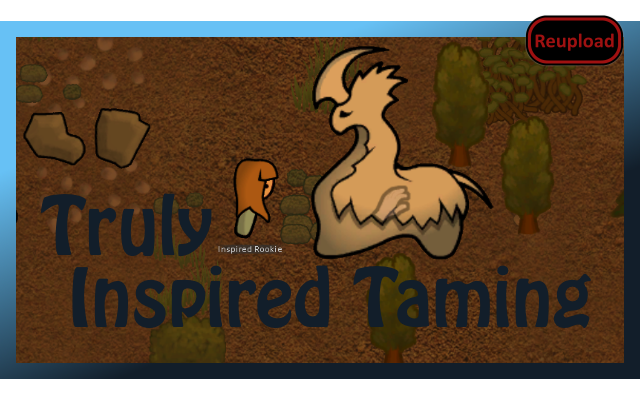
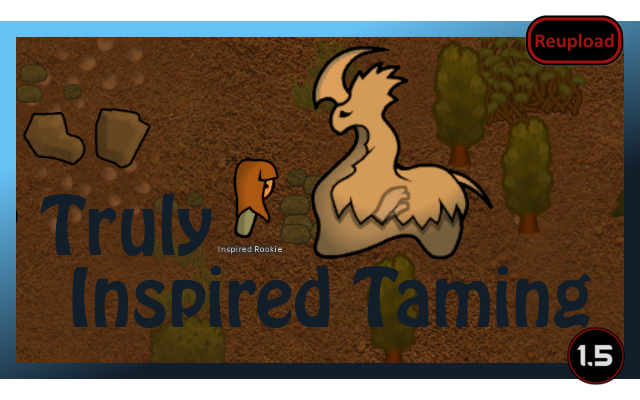
Mod updated for 1.5 and passed autotests

Changed region(s): [[0.875, 0.81, 1.0, 0.96]]

diff --git a/Source/Truly Inspired Taming/TrulyInspiredTaming.cs b/Source/Truly Inspired Taming/TrulyInspiredTaming.cs
@@ -12,8 +12,7 @@ internal class TrulyInspiredTaming : Mod
     {
         GetSettings<BoostSettings>();
         currentVersion =
-            VersionFromManifest.GetVersionFromModMetaData(
-                ModLister.GetActiveModWithIdentifier("Mlie.TrulyInspiredTaming"));
+            VersionFromManifest.GetVersionFromModMetaData(content.ModMetaData);
     }
 
     public override string SettingsCategory()

diff --git a/Source/Truly Inspired Taming/HarmonyPatches.cs b/Source/Truly Inspired Taming/HarmonyPatches.cs
@@ -19,7 +19,6 @@ internal static class HarmonyPatches
 {
     static HarmonyPatches()
     {
-        var harmonyInstance = new Harmony("RimWorld.OkraDonkey.TrulyInspiredTaming.main");
-        harmonyInstance.PatchAll(Assembly.GetExecutingAssembly());
+        new Harmony("RimWorld.OkraDonkey.TrulyInspiredTaming.main").PatchAll(Assembly.GetExecutingAssembly());
     }
 }

diff --git a/README.md b/README.md
@@ -39,9 +39,13 @@ u/GnomeYork
 
 -  See if the the error persists if you just have this mod and its requirements active.
 -  If not, try adding your other mods until it happens again.
--  Post your error-log using https://steamcommunity.com/workshop/filedetails/?id=818773962]HugsLib and command Ctrl+F12
+-  Post your error-log using https://steamcommunity.com/workshop/filedetails/?id=818773962]HugsLib or the standalone https://steamcommunity.com/sharedfiles/filedetails/?id=2873415404]Uploader and command Ctrl+F12
 -  For best support, please use the Discord-channel for error-reporting.
 -  Do not report errors by making a discussion-thread, I get no notification of that.
 -  If you have the solution for a problem, please post it to the GitHub repository.
+-  Use https://github.com/RimSort/RimSort/releases/latest]RimSort to sort your mods
 
+
+
+https://steamcommunity.com/sharedfiles/filedetails/changelog/2862231833]![Image](https://img.shields.io/github/v/release/emipa606/TrulyInspiredTaming?label=latest%20version&style=plastic&color=9f1111&labelColor=black)
 
